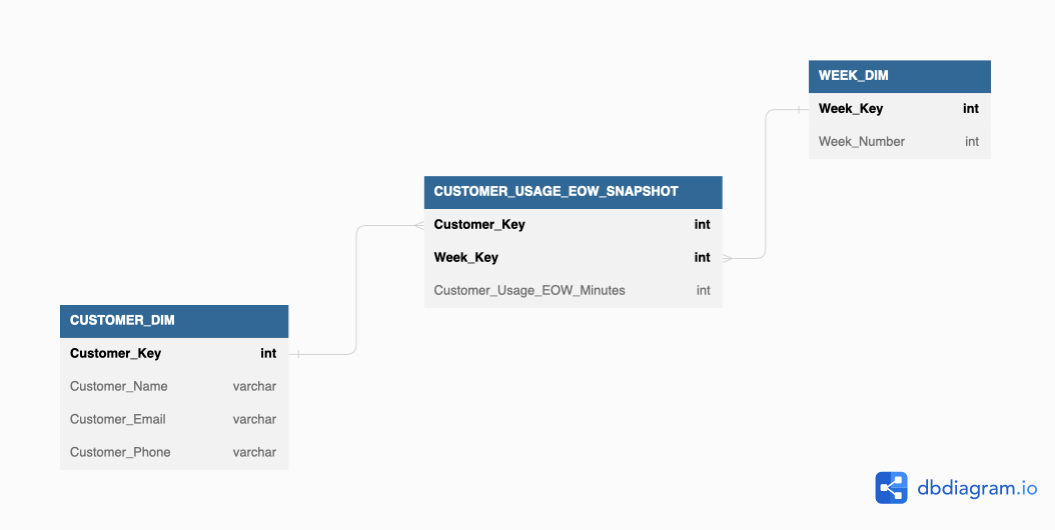
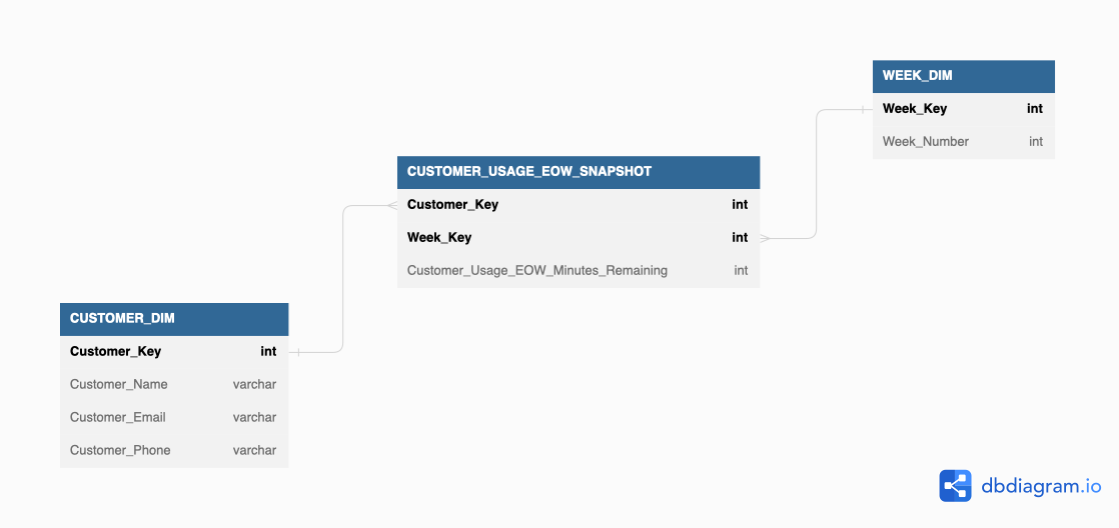
Fix snapshot table design

diff --git a/pipeline.py b/pipeline.py
@@ -21,6 +21,9 @@ def getWeekNumber(date):
 
 weekUDF = udf(lambda x: getWeekNumber(x), IntegerType())
 
+# 600 is the maximum minutes that user can spend per week, we subtract total minutes spent from 600 with this UDF
+remainingWeekMinutesUDF = udf(lambda x: 600 - x, IntegerType())
+
 # Pipeline main code --------------------------------------------------------------------------------------------------
 
 dw_handler = DataWarehouseHandler(DB_LOCATION)
@@ -49,6 +52,9 @@ df = df.groupBy(group_cols) \
     .agg(_sum('Activity_Minutes').alias('Week_Activity_Minutes')) \
     .orderBy('Week_Number')
 
+df = df.withColumn('Week_Activity_Minutes_Remaining', remainingWeekMinutesUDF(col('Week_Activity_Minutes')))
+df = df.drop(col('Week_Activity_Minutes'))  # this column is not needed anymore after we get the remaining minutes
+
 # df.show()
 
 # write data into staging table
@@ -64,10 +70,10 @@ past_week = 58  # 5th week of the year 2022 so csv data is past week's data
 # WHERE NOT EXISTS clause makes sure that we don't insert any duplicates
 # only assumption is that no new user is in the new data, that should be covered via SCD before this
 sql_query = f"""
-        INSERT INTO CUSTOMER_USAGE_EOW_SNAPSHOT (Customer_Key, Week_Key, Customer_Usage_EOW_Minutes)
+        INSERT INTO CUSTOMER_USAGE_EOW_SNAPSHOT (Customer_Key, Week_Key, Customer_Usage_EOW_Minutes_Remaining)
         SELECT c.Customer_Key,
                COALESCE(w.Week_Key, {past_week}),
-               COALESCE(s.Week_Activity_Minutes, 0)
+               COALESCE(s.Week_Activity_Minutes_Remaining, 600)
         FROM CUSTOMER_DIM c
         LEFT OUTER JOIN STAGING s ON
             c.Customer_Email = s.Customer_Email

diff --git a/warehouse_setup.py b/warehouse_setup.py
@@ -35,7 +35,7 @@ week_dim = """ CREATE TABLE WEEK_DIM (
 customer_usage_eow_snapshot = """ CREATE TABLE CUSTOMER_USAGE_EOW_SNAPSHOT (
                                   Customer_Key INTEGER NOT NULL,
                                   Week_Key INTEGER NOT NULL,
-                                  Customer_Usage_EOW_Minutes SMALLINT NOT NULL,
+                                  Customer_Usage_EOW_Minutes_Remaining SMALLINT NOT NULL,
                                   PRIMARY KEY(Customer_Key, Week_Key),
                                   FOREIGN KEY(Customer_Key) REFERENCES CUSTOMER_DIM(Customer_Key),
                                   FOREIGN KEY(Week_Key) REFERENCES WEEK_DIM(Week_Key)
@@ -46,7 +46,7 @@ staging_table = """ CREATE TABLE STAGING (
                     Staging_Key INTEGER NOT NULL PRIMARY KEY AUTOINCREMENT,
                     Customer_Email VARCHAR(30) NOT NULL,
                     Week_Number TINYINT NOT NULL,
-                    Week_Activity_Minutes SMALLINT NOT NULL
+                    Week_Activity_Minutes_Remaining SMALLINT NOT NULL
                 );"""
 
 cursor.execute(customer_dim)

diff --git a/README.md b/README.md
@@ -3,15 +3,22 @@ Medium article: https://medium.com/@joyo.development/periodic-snapshot-table-des
 
 Periodic snapshot table is one of the four types of fact tables in Data Warehousing.
 
-It contains periodic data from some time interval like week, month etc.
+It contains periodic data from some time interval like day, week, month etc.
 
 In this example we track customers activity on some web portal on weekly basis in minutes. 
+
+Let’s say that our customers get maximum of 600 minutes (10 hours) to use portal every week. We want to track the remaining time for every customer at the end of the week, to see how much our portal is being used.
+
 Full Data Warehouse schema is given on the image below:
 
 <img src="https://github.com/AleX77NP/Periodic-snapshot-table-design/raw/main/images/schema.png">
 
 We have two dimension tables - `CUSTOMER_DIM` and `WEEK_DIM`, and our Periodic snapshot fact table 
 `CUSTOMER_USAGE_EOW_SNAPSHOT` (EOW = End of week).
+
+`Customer_Usage_Activity_EOW_Minutes_Remaining` column in fact table represents number of remaining minutes customer gets to spend on portal during that week.
+
+This type of measure is called semi-additive measure, because it cannot it’s not additive — we cannot just sum up all remaining minutes from every week and get total, because this value resets to 600 at the beginning of every new week. However, we can calculate things like average remaining minutes per customer across weeks, or average remaining minutes for every week. This is why this type of table has “Snapshot” in its name.
 
 ## Setup
 First, we need to create tables in our data warehouse, and populate our dimension tables for customers and weeks.
@@ -23,7 +30,7 @@ In order to setup data warehouse and tables, do the following:
 ## Pipeline
 File `pipeline.py` is a PySpark script that takes new weekly data from `new_data.csv` file and prepares
 data with `GROUP BY` (by user and week) and `SUM` on daily activities in order to create weekly rows, since csv data
-is daily data.
+is daily data. Then we need to subtract that sum from 600 to get remaining minutes for the week for every customer.
 
 We save this result inside the `STAGING` table which is only used for this temporary data, and is deleted 
 after pipeline is finished.
